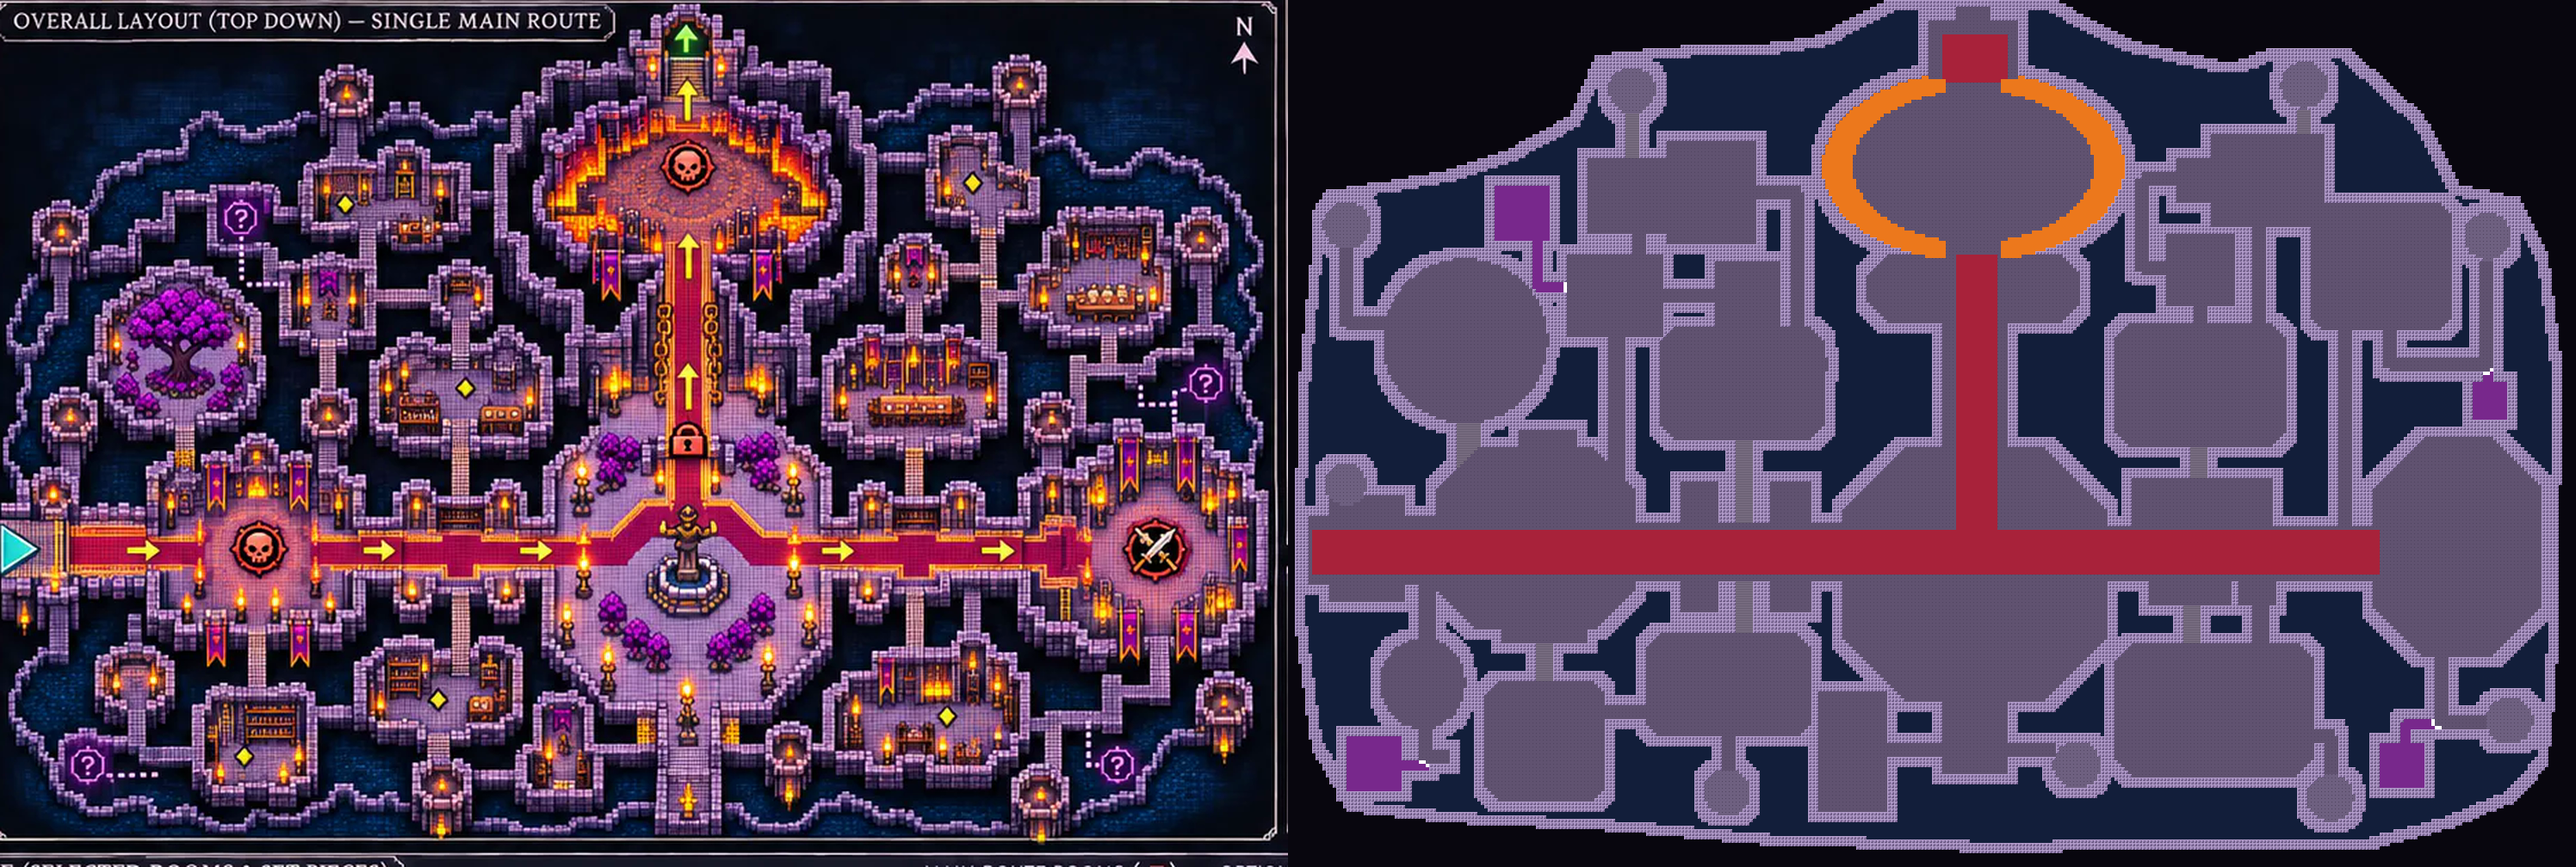
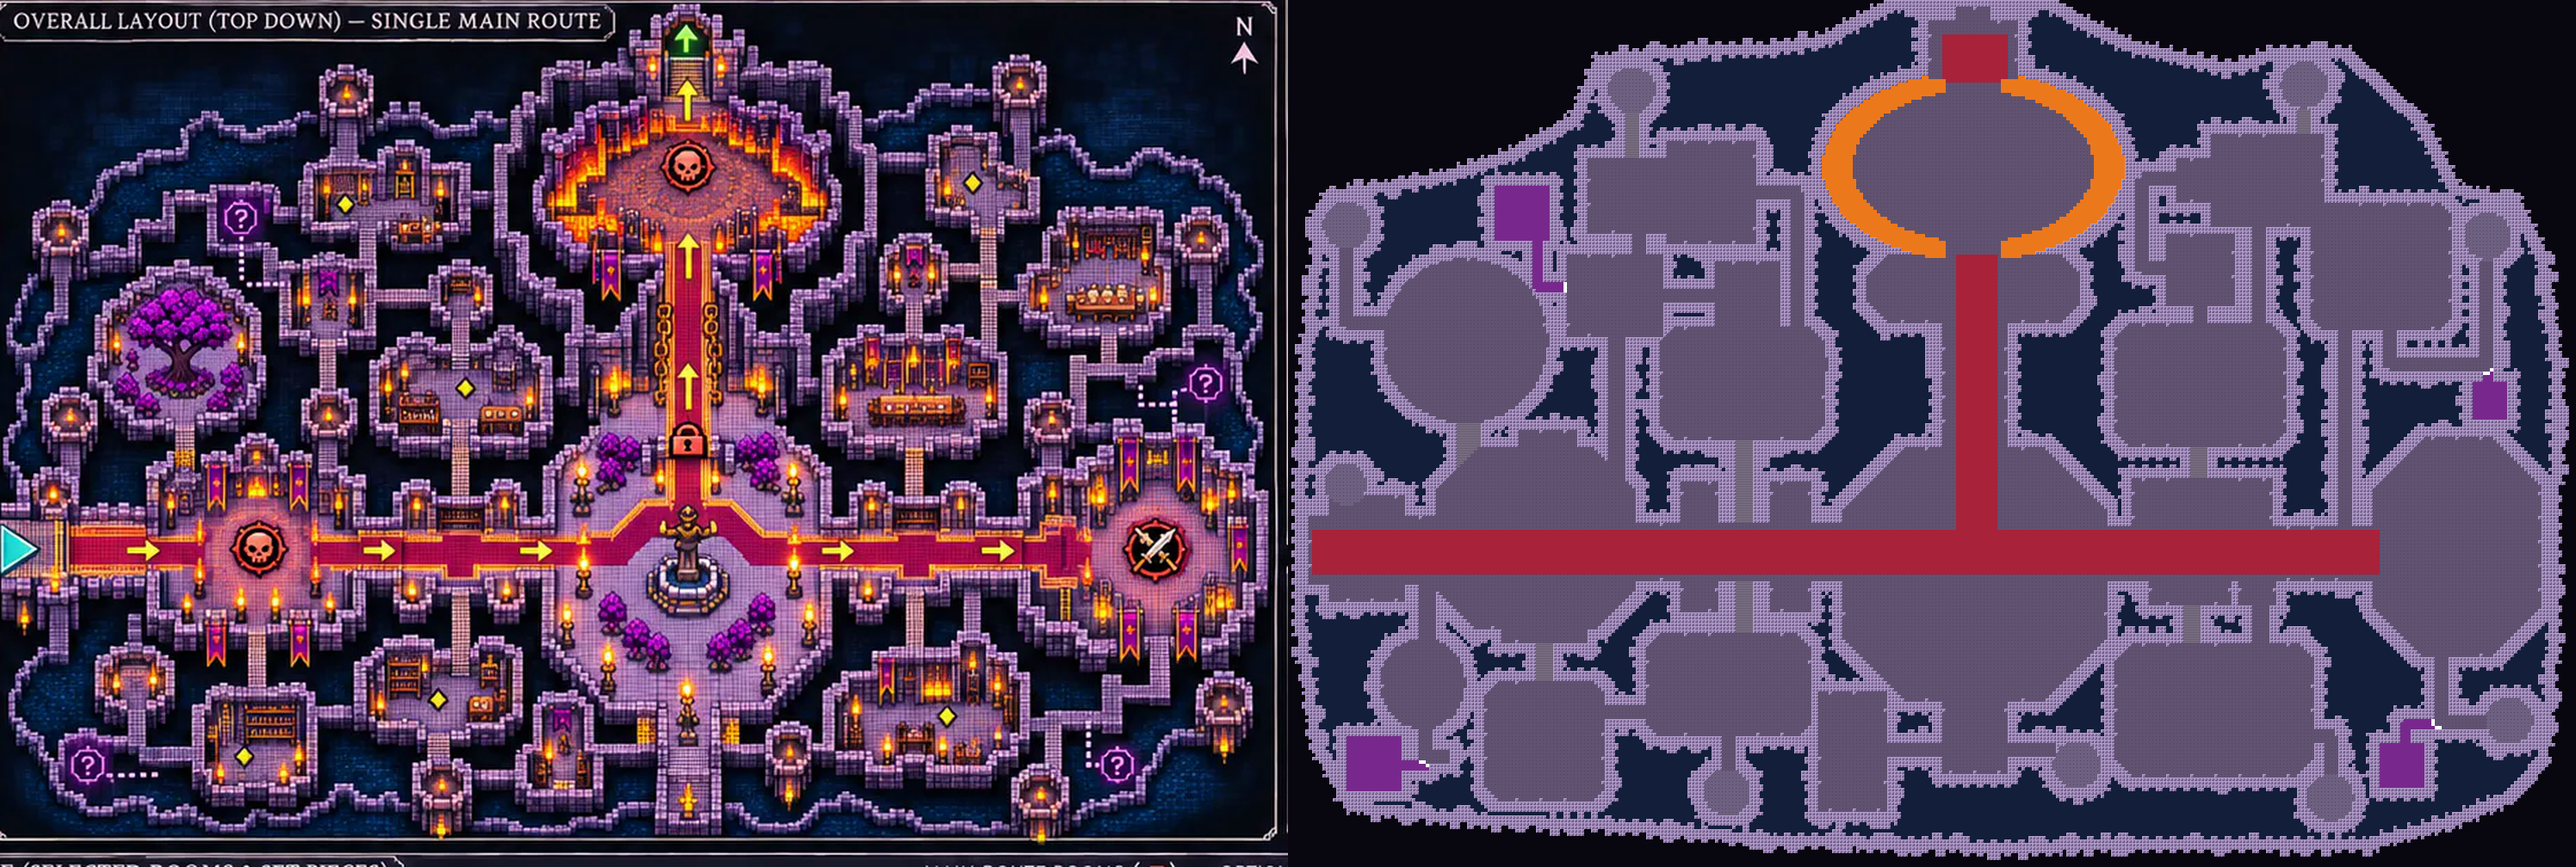
Sunthief's Castle rebuild, stage D: the stonework and the route's detail. The sheet's crenellated, jagged edges (the user's condition): every outside face of the walls crenellated, a merlon every other pair of tiles out over the moat or the dark; buttresses and turret corners thrown out from the lon

diff --git a/src/world/castle_master.js b/src/world/castle_master.js
@@ -27,7 +27,7 @@ export const ROOMS = [
   { id: 'entrance', name: 'THE WEST ENTRANCE', kind: 'main', parts: [r(230, 440, 324, 490), r(244, 426, 300, 440), r(244, 490, 300, 504)] },
   { id: 'drawbridge', name: 'THE DRAWBRIDGE GUARD', kind: 'main', boss: 'drawbridge_technician', parts: [oc(322, 392, 468, 524, 30), r(383, 378, 425, 394), r(370, 522, 432, 534)] },
   { id: 'spineW', name: 'THE GREAT HALL (WEST)', kind: 'main', parts: [r(466, 445, 619, 489), r(500, 416, 528, 446), r(566, 416, 594, 446), r(500, 488, 528, 510), r(566, 488, 594, 510)] },
-  { id: 'courtyard', name: 'THE CENTRAL COURTYARD', kind: 'main', parts: [oc(617, 392, 810, 576, 46), r(690, 574, 738, 628)] },
+  { id: 'courtyard', name: 'THE CENTRAL COURTYARD', kind: 'main', parts: [oc(617, 392, 810, 576, 46), r(690, 574, 738, 628)], fit: [617, 392, 810, 540] },   // (its page set out about the great cross: the statue on the route, as the sheet has it)
   { id: 'spineE', name: 'THE GREAT HALL (EAST)', kind: 'main', parts: [r(808, 448, 1006, 488), r(828, 414, 930, 449), r(840, 487, 900, 506), r(906, 487, 932, 506)] },
   { id: 'jarls', name: "THE HOLLOW JARLS' COURT", kind: 'main', boss: 'jarls', parts: [oc(1002, 384, 1126, 544, 38)] },
   { id: 'chainhall', name: 'THE CHAIN HALL', kind: 'main', lock: 'jarls', parts: [r(690, 296, 738, 394)] },
@@ -164,6 +164,47 @@ export function buildMaster() {
     if (near || edge) wall[i] = 1;
   }
   for (let i = 0; i < w * h; i++) if (wall[i]) T[i] = K.WALL;
+  // ---- stage D, the sheet's stonework (the user, 2026-11-05: "don't forget to make the crenellated, jagged wall edges and
+  // small wall projections"): every outside face of the walls crenellated (a merlon every other pair of tiles, out over the
+  // moat or the dark); a buttress or a turret's corner thrown out from the long faces now and then, never the same twice;
+  // and inside the rooms, piers standing out from their walls along the long straight runs (never by a doorway)
+  const hsh = (x, y) => ((Math.sin(x * 127.1 + y * 311.7) * 43758.5453) % 1 + 1) % 1;
+  const isW = (x, y) => { const i = at(x, y); return i >= 0 && T[i] === K.WALL; }, open = (x, y) => { const i = at(x, y); return i < 0 || T[i] === K.WATER || T[i] === K.VOID; };
+  const add = [];
+  for (let y = 1; y < h - 1; y++) for (let x = 1; x < w - 1; x++) {
+    if (!open(x, y)) continue;
+    const nN = isW(x, y - 1), nS = isW(x, y + 1), nE = isW(x + 1, y), nW = isW(x - 1, y);
+    if ((nN || nS) && !(nE || nW) && Math.floor(x / 2) % 2 === 0 && open(x, y + (nN ? 1 : -1))) add.push([x, y]);   // (a merlon on a north or south face)
+    else if ((nE || nW) && !(nN || nS) && Math.floor(y / 2) % 2 === 0 && open(x + (nW ? 1 : -1), y)) add.push([x, y]);   // (on an east or west face)
+  }
+  for (let y = 2; y < h - 2; y++) for (let x = 2; x < w - 2; x++) {   // (a buttress: two out and three wide, from a long straight face, about one in eleven)
+    if (hsh(x, y) > 0.09 || !open(x, y)) continue;
+    for (const [dx, dy] of [[0, 1], [0, -1], [1, 0], [-1, 0]]) {
+      if (!isW(x - dx, y - dy)) continue;
+      const px = -dy, py = dx; if (!isW(x - dx + px * 2, y - dy + py * 2) || !isW(x - dx - px * 2, y - dy - py * 2)) continue;   // (a straight face either side)
+      let room = true; for (let k = 0; k < 4 && room; k++) for (let q = -1; q <= 1; q++) if (!open(x + dx * k + px * q, y + dy * k + py * q)) room = false;   // (water clear in front)
+      if (room) for (let k = 0; k < 2; k++) for (let q = -1; q <= 1; q++) add.push([x + dx * k + px * q, y + dy * k + py * q]);
+      break;
+    }
+  }
+  for (const [x, y] of add) T[at(x, y)] = K.WALL;
+  // the piers inside: one tile of wall out from a straight wall into a room's own floor, every seven or so along it,
+  // only where the room is deep there and no doorway is near (a doorway: within four of floor not the room's own)
+  const flr = (i) => i >= 0 && (T[i] === K.FLOOR || T[i] === K.CARPET);
+  const nearDoor = (x, y) => { const o = owner[at(x, y)]; for (let dy = -4; dy <= 4; dy++) for (let dx = -4; dx <= 4; dx++) { const j = at(x + dx, y + dy); if (j >= 0 && (walk(T[j]) || T[j] === K.STAIR) && owner[j] !== o) return true; } return false; };
+  for (let y = 2; y < h - 2; y++) for (let x = 2; x < w - 2; x++) {
+    const i = at(x, y); if (!flr(i) || owner[i] < 0 || ROOMS[owner[i]].kind === 'tower' || ROOMS[owner[i]].lavaRim) continue;
+    for (const [dx, dy] of [[0, -1], [0, 1], [1, 0], [-1, 0]]) {
+      if (!isW(x + dx, y + dy)) continue;
+      const px = -dy, py = dx, along = dy ? x : y;
+      if (along % 7 !== 3) break;
+      let ok = true;
+      for (let q = -2; q <= 2 && ok; q++) { if (!isW(x + dx + px * q, y + dy + py * q) || !flr(at(x + px * q, y + py * q))) ok = false; }   // (a straight wall, floor along it)
+      for (let k = 1; k <= 4 && ok; k++) if (!flr(at(x - dx * k, y - dy * k))) ok = false;   // (deep enough behind it)
+      if (ok && !nearDoor(x, y)) T[i] = K.WALL;
+      break;
+    }
+  }
   // the secret tunnels: a cracked wall where each meets the room it opens from (the tunnel tile next to that room's floor)
   for (let i = 0; i < w * h; i++) if (T[i] === K.SECRET && owner[i] < 0) {
     const x = i % w, y = Math.floor(i / w); for (const [dx, dy] of [[1, 0], [-1, 0], [0, 1], [0, -1]]) { const j = at(x + dx, y + dy); if (j >= 0 && (T[j] === K.FLOOR || T[j] === K.CARPET || T[j] === K.STAIR || T[j] === K.TOWER)) { T[i] = K.PLUG; plugs.push([x, y]); break; } }
@@ -206,9 +247,17 @@ export function masterAreas() {
     let x0 = 1e9, y0 = 1e9, x1 = -1e9, y1 = -1e9; for (const p of R.parts) { x0 = Math.min(x0, p.b[0]); y0 = Math.min(y0, p.b[1]); x1 = Math.max(x1, p.b[2]); y1 = Math.max(y1, p.b[3]); }
     const tx0 = WX + Math.round((x0 - OX) * S), ty0 = WY + Math.round((y0 - OY) * S), tx1 = WX + Math.round((x1 - OX) * S), ty1 = WY + Math.round((y1 - OY) * S);
     const [num, region, ex = {}] = AREA_OF[R.id], w = tx1 - tx0 + 1, h = ty1 - ty0 + 1;
-    const extra = { master: R.id, ...(R.kind === 'opt' ? { opt: true, role: 'treasure' } : R.kind === 'tower' ? { opt: true, role: 'rest' } : {}), ...ex };
+    const F = R.fit || R.parts[0].b, fx0 = WX + Math.round((F[0] - OX) * S), fy0 = WY + Math.round((F[1] - OY) * S), fx1 = WX + Math.round((F[2] - OX) * S), fy1 = WY + Math.round((F[3] - OY) * S);
+    const extra = { fit: [fx0 - tx0, fy0 - ty0, fx1 - fx0 + 1, fy1 - fy0 + 1], master: R.id, ...(R.kind === 'opt' ? { opt: true, role: 'treasure' } : R.kind === 'tower' ? { opt: true, role: 'rest' } : {}), ...ex };
     return [num, 'a' + num, R.name, region, tx0 + w / 2, ty0 + h / 2, w, h, 'master', extra];
   });
 }
 // a sheet point or box in the world's tiles
 export const toWorld = (px, py) => [WORLD[0] + Math.round((px - ORIGIN[0]) * SCALE), WORLD[1] + Math.round((py - ORIGIN[1]) * SCALE)];
+
+// the main route's runner (stage D): through each of these rooms, on this line of the sheet; a room's own runners on that
+// line join it, its emblems and rings on it break it (capped either side)
+export const MAIN_LINES = [
+  { d: 'ew', at: 466, rooms: ['entrance', 'drawbridge', 'spineW', 'courtyard', 'spineE', 'jarls'], style: 'crown' },
+  { d: 'ns', at: 714, rooms: ['chainhall', 'antechamber', 'northkeep'], style: 'crown' },
+];

diff --git a/src/world/maps.js b/src/world/maps.js
@@ -3,7 +3,7 @@ import { keyParen } from '../settings.js';
 import { rng, noise2, dist } from '../util.js';
 import { AREAS, WAYS, LOCKS, MECHS, GEYSERS, SECRETS } from './castle_plan.js';
 import { ROOMS, MASTER_PAGES, fitPage } from './castle_rooms.js';
-import { buildMaster, K as MK, WORLD as MWORLD, LOCK_DOORS, WEST_DOOR, toWorld as mWorld, ROOMS as MROOMS } from './castle_master.js';
+import { buildMaster, K as MK, WORLD as MWORLD, LOCK_DOORS, WEST_DOOR, toWorld as mWorld, ROOMS as MROOMS, MAIN_LINES } from './castle_master.js';
 
 export const TILE_NAMES = ['water', 'deep', 'sand', 'fen', 'mud', 'snow', 'runefloor', 'runeglyph',
   'ash', 'obsidian', 'marble', 'forge', 'forgewall', 'lava', 'void', 'chapelfloor', 'chapelwall', 'goldvein', 'ribwall',
@@ -1476,7 +1476,14 @@ export function dungeon(seed, def) {
       for (const [num, key, title, region, cx, cy, w, h, shape, ex = {}] of AREAS) {
         const n = room(Math.round(cx - w / 2), Math.round(cy - h / 2), w, h, { kind: KIND[key] || 'area', key, title, num, region, form: shape, sect: SECT[region], shape: 'maze', dep: num, ...ex });
         if (ex.opt) n.leaf = true;
-        const T = ex.master ? { ...(MASTER_PAGES[ex.master] ? fitPage(...MASTER_PAGES[ex.master], w, h) : { w, h, floor: [], doors: {} }), master: ex.master } : ROOMS[key];   // (a room of the castle's fixed footprint: laid from it below; otherwise a room laid out from the user's page: its own size, its own place: src/world/castle_rooms.js)
+        const T = ex.master ? { ...(MASTER_PAGES[ex.master] ? fitPage(...MASTER_PAGES[ex.master], w, h, ex.fit) : { w, h, floor: [], doors: {} }), master: ex.master } : ROOMS[key];
+        if (T && T.master) for (const L of MAIN_LINES) if (L.rooms.includes(T.master)) {   // THE MAIN ROUTE'S RUNNER (stage D): one line through the route's rooms; a page's runner on it joins it, its emblems and rings on it break it
+          const ew = L.d === 'ew', at = ew ? mWorld(0, L.at)[1] - Math.round(cy - h / 2) : mWorld(L.at, 0)[0] - Math.round(cx - w / 2), len = ew ? w : h;
+          const mine = (T.runners || []).filter((q) => q[0] === L.d && Math.abs(q[1] - at) <= 6), style = (mine[0] && mine[0][4]) || L.style;
+          const stops = [...(T.emblems || []), ...(T.rings || []), ...(T.beds || [])].filter((q) => Math.abs((ew ? q[1] : q[0]) - at) <= 3).map((q) => [(ew ? q[0] : q[1]) - 3 - (q[2] > 0 && typeof q[2] === 'number' ? q[2] : 0), (ew ? q[0] : q[1]) + 3 + (q[2] > 0 && typeof q[2] === 'number' ? q[2] : 0)]);
+          const segs = []; let a0 = 0; for (const [b0, b1] of stops.sort((u, v) => u[0] - v[0])) { if (b0 - 1 >= a0) segs.push([a0, b0 - 1, a0 > 0, true]); a0 = Math.max(a0, b1 + 1); } if (a0 < len) segs.push([a0, len - 1, a0 > 0, false]);
+          T.runners = [...(T.runners || []).filter((q) => !mine.includes(q)), ...segs.map(([u, v, cA, cB]) => [L.d, at, u, v, style, cA, cB])];
+        }   // (a room of the castle's fixed footprint: laid from it below; otherwise a room laid out from the user's page: its own size, its own place: src/world/castle_rooms.js)
         if (T && T.master) { n.tpl = T; n.master = ex.master; }
         else if (T) { const [ax, ay] = T.at || [cx, cy]; n.w = T.w; n.h = T.h; n.x = Math.round(ax - T.w / 2); n.y = Math.round(ay - T.h / 2); n.cx = n.x + (T.w >> 1); n.cy = n.y + (T.h >> 1); n.tpl = T; }
         A[num] = n; R0[key] = n;
@@ -2106,7 +2113,7 @@ export function dungeon(seed, def) {
     const dais = (cx, cy, w2, h2) => { for (let dy = -h2; dy <= h2; dy++) for (let dx = -w2; dx <= w2; dx++) if (fl(cx + dx, cy + dy)) skin(cx + dx, cy + dy, Math.abs(dx) === w2 || Math.abs(dy) === h2 ? 'keep_step' : 'keep_dais'); };
     if (n.tpl) {                                             // A ROOM FROM ITS PAGE (src/world/castle_rooms.js): its runners, its emblems, its props where the page has them
       const T = n.tpl;
-      for (const [d, at, a0, a1, st] of T.runners || []) { if (d === 'ns') runnerNS(n.x + at, n.y + a0, n.y + a1, st); else runnerEW(n.y + at, n.x + a0, n.x + a1, st); }
+      for (const [d, at, a0, a1, st, cA = true, cB = true] of T.runners || []) { if (d === 'ns') runnerNS(n.x + at, n.y + a0, n.y + a1, st, cA, cB); else runnerEW(n.y + at, n.x + a0, n.x + a1, st, cA, cB); }
       for (const [x0, y0, x1, y1, st] of T.rugs || []) for (let y = y0; y <= y1; y++) for (let x = x0; x <= x1; x++) {   // (a rug: one border round it, its field between)
         const X = n.x + x, Y = n.y + y; if (!fl(X, Y)) continue; set(X, Y, TID.kpcarpet);
         const edge = y === y0 || y === y1 || x === x0 || x === x1;   // (its field plain, the runner's own red; its border the runner's own: no stripes of motif across it)
@@ -2160,6 +2167,19 @@ export function dungeon(seed, def) {
           const cx = x + Math.floor(h(y, x) * 2), cy = y + Math.floor(h(x + 7, y) * 2);
           if (free2(n.x + cx, n.y + cy)) put(m, 'castle_decor/rock', n.x + cx, n.y + cy, true);
           for (const [dx, dy] of [[1, 0], [-1, 1], [0, 1], [1, 1], [-1, 0]]) if (h(cx + dx * 3, cy + dy * 5) < 0.6 && free2(n.x + cx + dx, n.y + cy + dy)) put(m, 'castle_decor/rubble', n.x + cx + dx, n.y + cy + dy, false);
+        }
+      }
+      if (n.master) {                                          // (stage D: the great halls' walls hung with banners and lit, a fire in each tower, Ashkar's chains)
+        const own = (X, Y) => m.masterOwn(X, Y) === n.master, ok = (X, Y) => own(X, Y) && free2(X, Y) && tile(X, Y) !== TID.kpcarpet && !m.masterDoor(X, Y);
+        const wallN = (X, Y) => tile(X, Y - 1) === WALL || tile(X, Y - 1) === TID.void, wallS = (X, Y) => tile(X, Y + 1) === WALL || tile(X, Y + 1) === TID.void;
+        if (n.master === 'spineW' || n.master === 'spineE') {
+          let k = 0; for (let Y = n.y; Y < n.y + n.h; Y++) for (let X = n.x; X < n.x + n.w; X++) if (ok(X, Y) && wallN(X, Y) && (X + Y) % 6 === 0) put(m, k++ % 2 ? 'castle_art/banner_sun' : 'castle_art/banner_crown', X, Y, false);
+          for (let Y = n.y; Y < n.y + n.h; Y++) for (let X = n.x; X < n.x + n.w; X++) if (ok(X, Y) && wallS(X, Y) && X % 9 === 4) put(m, 'castle_art/brazier_gold', X, Y, true);
+        }
+        if (/^tw/.test(n.master)) { const X = Math.round(n.x + n.w / 2), Y = Math.round(n.y + n.h / 2); if (own(X, Y)) put(m, 'castle_art/brazier_gold', X, Y, true); }
+        if (n.master === 'ashkar') for (const a of [0.6, 2.55, 3.7, 5.65]) {   // (his chains: four posts round the floor's edge, by the lava; none in his lanes)
+          let X = Math.round(n.cx + Math.cos(a) * n.w * 0.33), Y = Math.round(n.cy + Math.sin(a) * n.h * 0.33);
+          if (ok(X, Y)) put(m, 'castle_decor/chain_post', X, Y, false);
         }
       }
       return;

diff --git a/src/world/castle_rooms.js b/src/world/castle_rooms.js
@@ -592,9 +592,10 @@ export const MASTER_PAGES = {
   watch: [PAGES.a28, 3],           // A6 the Collapsed Wing: the south watch, in from the stair east
   chapel: [PAGES.a31, 2],          // 09 the Chapel of Hollow Light: in from the east hall above
 };
-export function fitPage(T0, k, w, h) {
+export function fitPage(T0, k, w, h, fit) {   // (fit: [x, y, w, h] the part of the room its page is set out over; the whole room if none)
   let T = { ...T0 }; delete T.at; for (let i = 0; i < k; i++) T = turn1(T);
-  const sx = (w - 1) / Math.max(1, T.w - 1), sy = (h - 1) / Math.max(1, T.h - 1), X = (x) => Math.round(x * sx), Y = (y) => Math.round(y * sy);
+  const [ox, oy, fw, fh] = fit || [0, 0, w, h];
+  const sx = (fw - 1) / Math.max(1, T.w - 1), sy = (fh - 1) / Math.max(1, T.h - 1), X = (x) => ox + Math.round(x * sx), Y = (y) => oy + Math.round(y * sy);
   const Rc = (q) => [X(q[0]), Y(q[1]), X(q[2]), Y(q[3]), ...q.slice(4)], Pt = ([x, y, ...r]) => [X(x), Y(y), ...r];
   const O = { w, h, floor: [], doors: {}, page: T0.page };
   for (const key of ['cut', 'lava', 'boards', 'grass', 'chasm', 'dais', 'stairs', 'rugs', 'debris', 'skins']) if (T[key]) O[key] = T[key].map(Rc);
